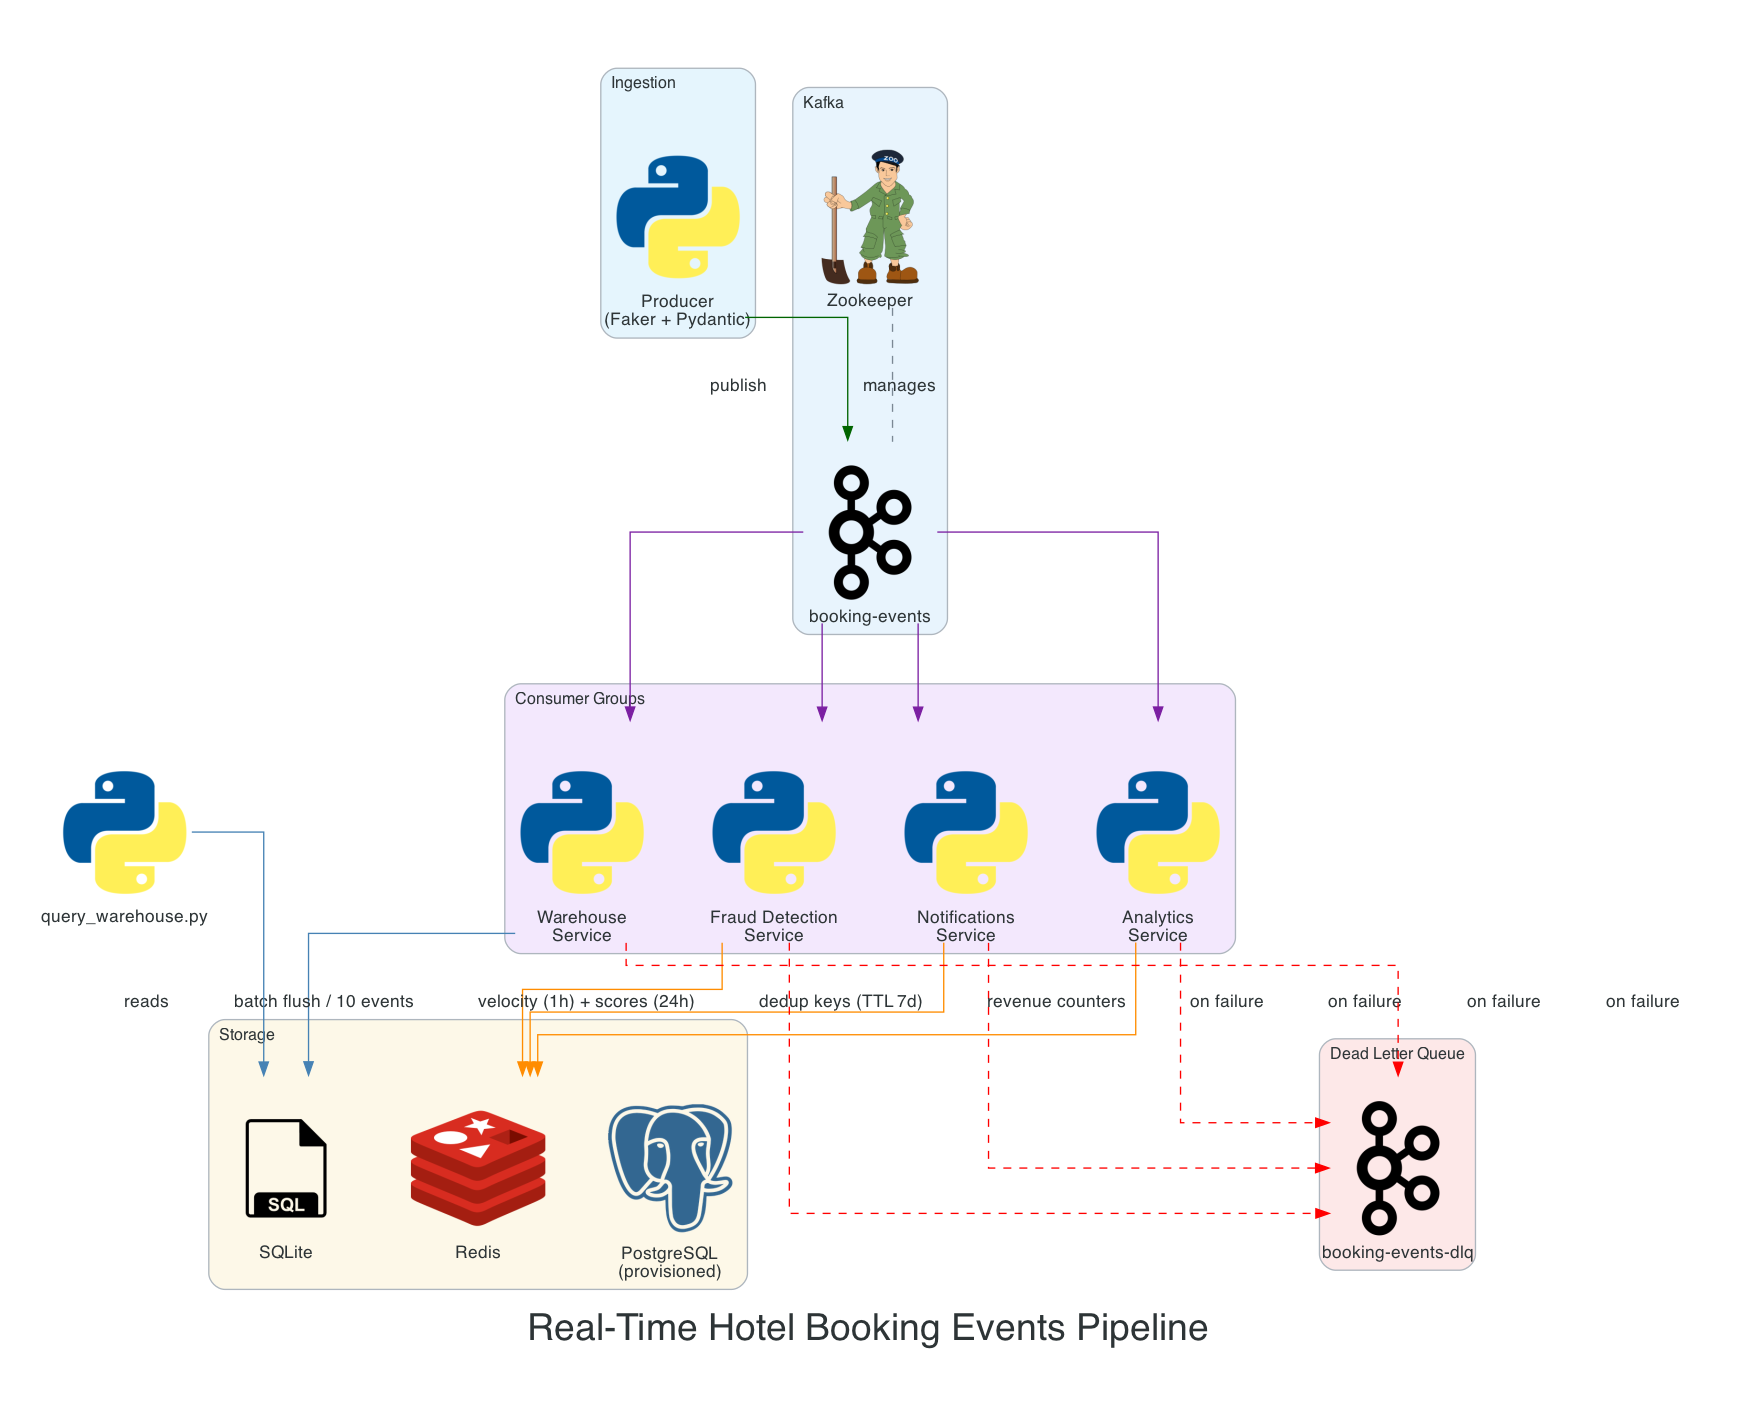
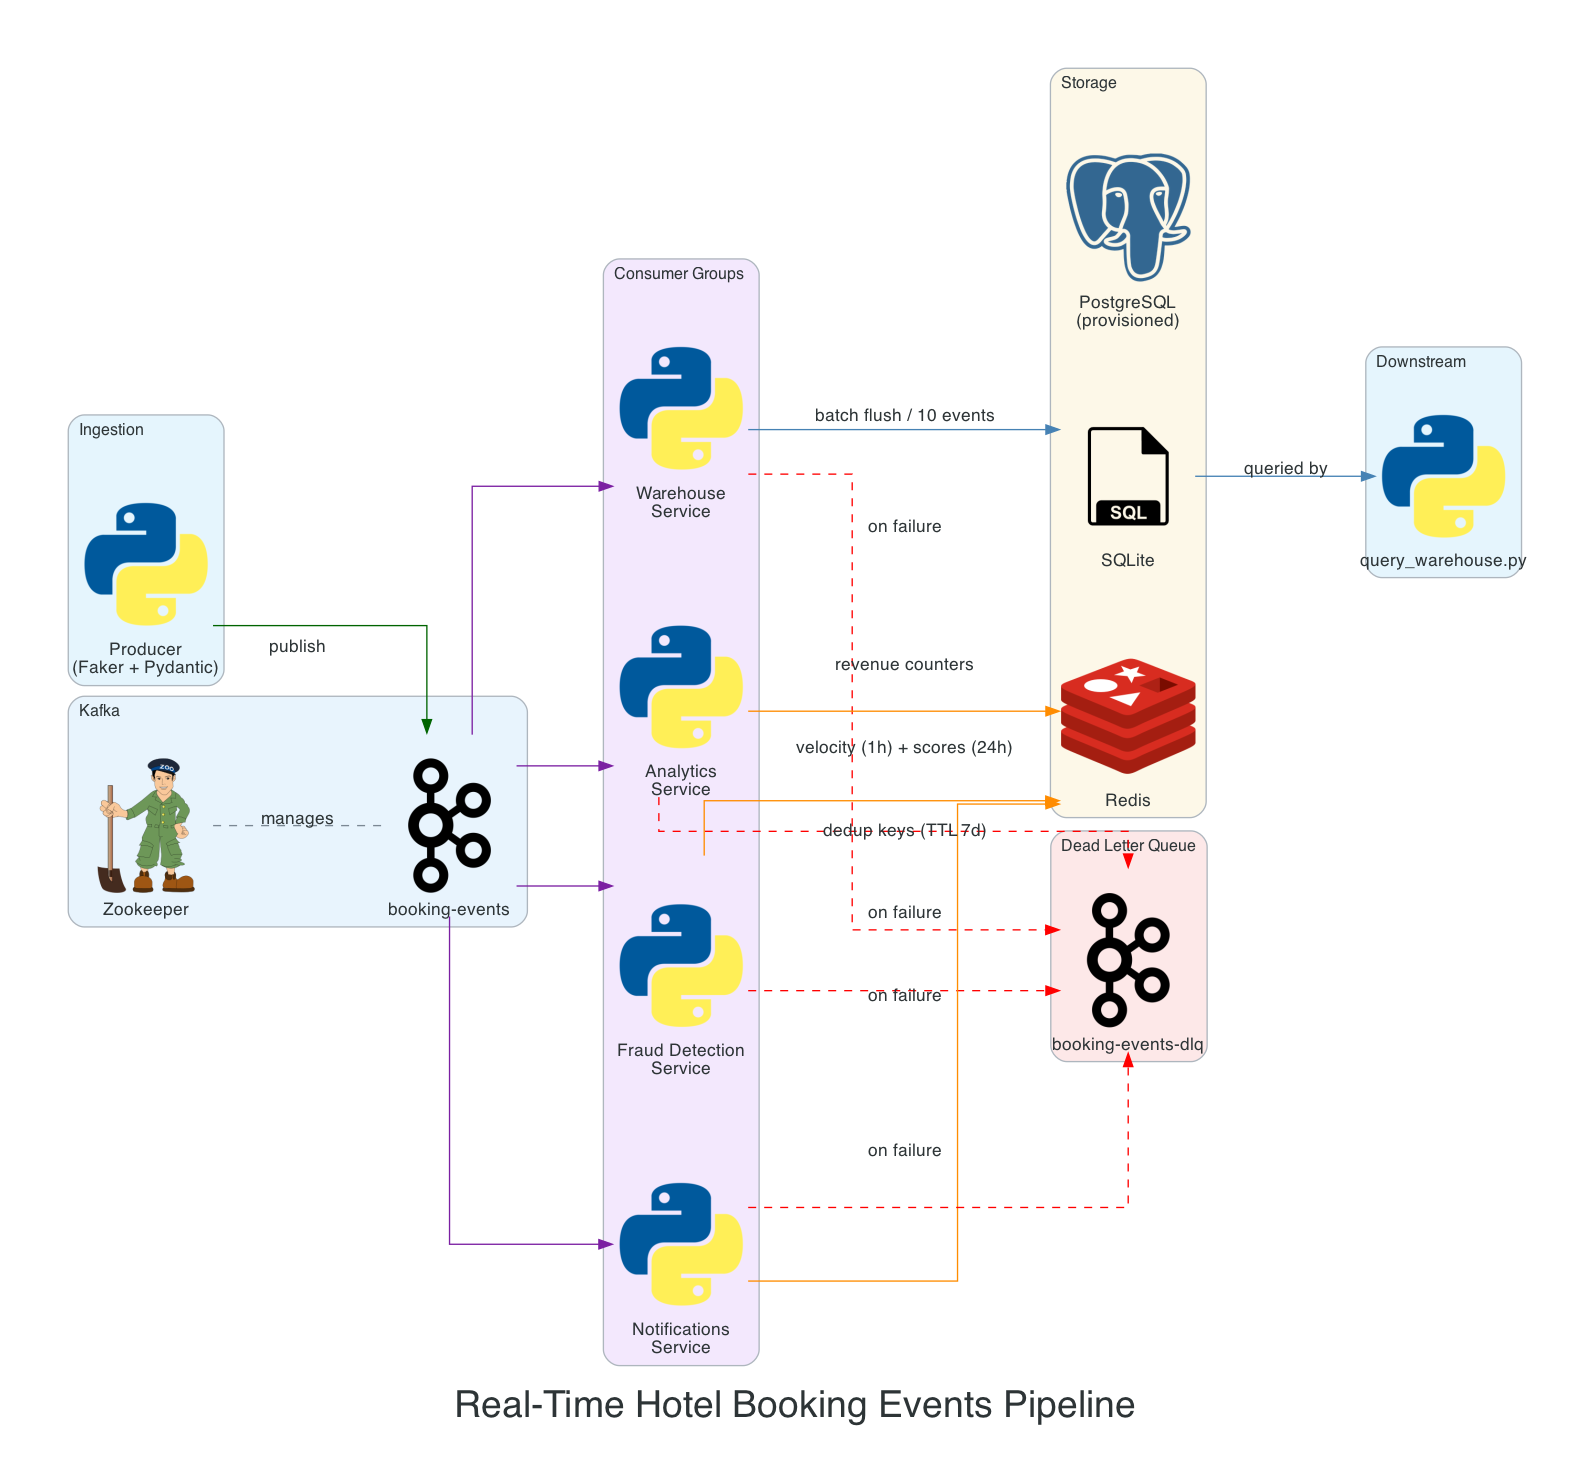
refactor: Update architecture diagram and script
Adjusted the diagram direction to Left-to-Right and reordered nodes for better clarity. Also updated the script to reflect these changes and improve the organization of elements within the diagram.

diff --git a/scripts/generate_diagram.py b/scripts/generate_diagram.py
@@ -23,7 +23,7 @@ with Diagram(
     "Real-Time Hotel Booking Events Pipeline",
     filename="docs/architecture",
     show=False,
-    direction="TB",
+    direction="LR",
     graph_attr=graph_attr,
     edge_attr=edge_attr,
     outformat="png",
@@ -37,40 +37,41 @@ with Diagram(
         zk - Edge(style="dashed", label="manages") - topic
 
     with Cluster("Consumer Groups", graph_attr={"style": "rounded", "bgcolor": "#f3e8fd"}):
-        notifications = Python("Notifications\nService")
-        fraud = Python("Fraud Detection\nService")
-        analytics = Python("Analytics\nService")
         warehouse = Python("Warehouse\nService")
+        analytics = Python("Analytics\nService")
+        fraud = Python("Fraud Detection\nService")
+        notifications = Python("Notifications\nService")
 
     with Cluster("Storage", graph_attr={"style": "rounded", "bgcolor": "#fdf8e8"}):
-        redis = Redis("Redis")
         sqlite = SQL("SQLite")
+        redis = Redis("Redis")
         postgres = PostgreSQL("PostgreSQL\n(provisioned)")
 
     with Cluster("Dead Letter Queue", graph_attr={"style": "rounded", "bgcolor": "#fde8e8"}):
         dlq = Kafka("booking-events-dlq")
 
-    query = Python("query_warehouse.py")
+    with Cluster("Downstream"):
+        query = Python("query_warehouse.py")
 
     # Producer -> Kafka
     producer >> Edge(label="publish", color="darkgreen") >> topic
 
     # Kafka -> Consumers
-    topic >> Edge(color="#7b1fa2") >> notifications
-    topic >> Edge(color="#7b1fa2") >> fraud
-    topic >> Edge(color="#7b1fa2") >> analytics
     topic >> Edge(color="#7b1fa2") >> warehouse
+    topic >> Edge(color="#7b1fa2") >> analytics
+    topic >> Edge(color="#7b1fa2") >> fraud
+    topic >> Edge(color="#7b1fa2") >> notifications
 
     # Consumers -> Storage
-    notifications >> Edge(label="dedup keys (TTL 7d)", color="darkorange") >> redis
-    fraud >> Edge(label="velocity (1h) + scores (24h)", color="darkorange") >> redis
-    analytics >> Edge(label="revenue counters", color="darkorange") >> redis
     warehouse >> Edge(label="batch flush / 10 events", color="steelblue") >> sqlite
+    analytics >> Edge(label="revenue counters", color="darkorange") >> redis
+    fraud >> Edge(label="velocity (1h) + scores (24h)", color="darkorange") >> redis
+    notifications >> Edge(label="dedup keys (TTL 7d)", color="darkorange") >> redis
 
     # Consumers -> DLQ (single grouped edge for clarity)
-    [notifications, fraud, analytics, warehouse] >> Edge(
+    [warehouse, analytics, fraud, notifications] >> Edge(
         style="dashed", color="red", label="on failure"
     ) >> dlq
 
     # Query script
-    query >> Edge(label="reads", color="steelblue") >> sqlite
+    sqlite >> Edge(label="queried by", color="steelblue") >> query
